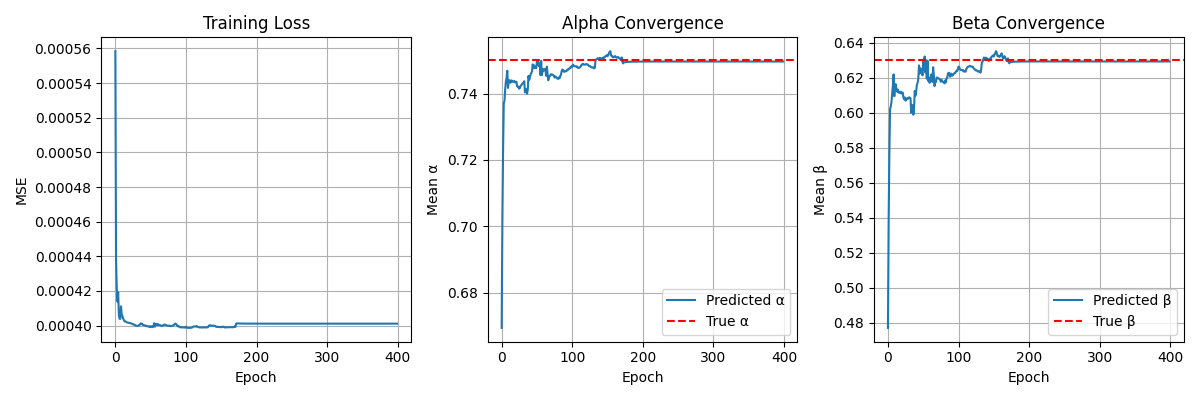
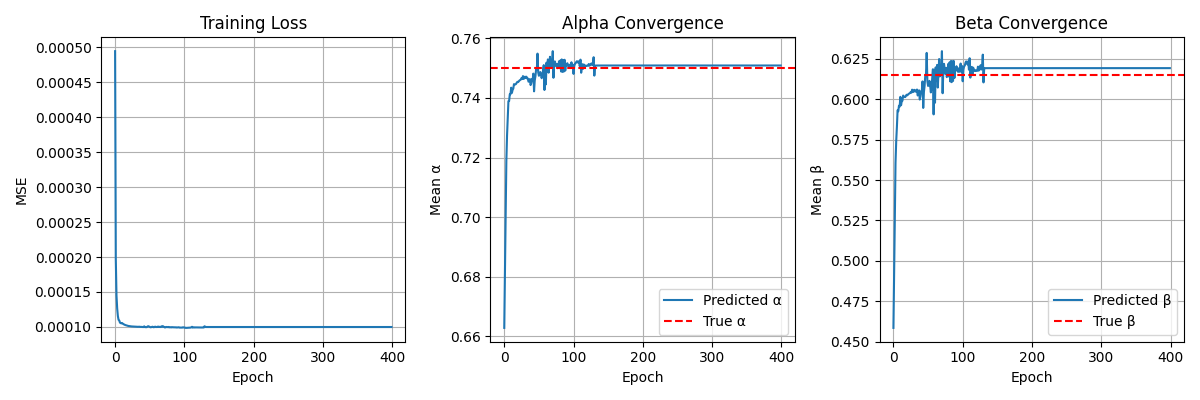
minor update

diff --git a/Projects/PINN/index.html b/Projects/PINN/index.html
@@ -70,9 +70,13 @@
             <section class="content-block">
                 <div class="text-content">
                     <h3>Validation Case 1</h3>
-		    <p>Implementatioon code:</p>
+		    <p>Implementation code:</p>
 		    <p>https://github.com/ZhenwenWan/Hemodyn/blob/main/DSML/NN_Physics_Hybrid_Training.py</p>
-                    <p>The following figure shows convergence of predicted parameters to the true values used in training samples:</p>
+		    <p>class Heat1DModelTorch is used to deliver analytical solutions which form sythesized data with added noise.</p>
+		    <p>class  PhysicsLayer is used to deliver numerical solutions.</p>
+		    <p>class  FeatureNN is a neural network for extracting feature parameters.</p>
+		    <p>The sythesized data noise represents both uncertainities from parameters and the system.</p>
+                    <p>The following figure shows convergence of predicted parameters to the values preset for the analytical solution:</p>
                 </div>
                 <img src="PINN_Training_Convergence.png" alt="Training convergence plot" class="visual-content">
             </section>
